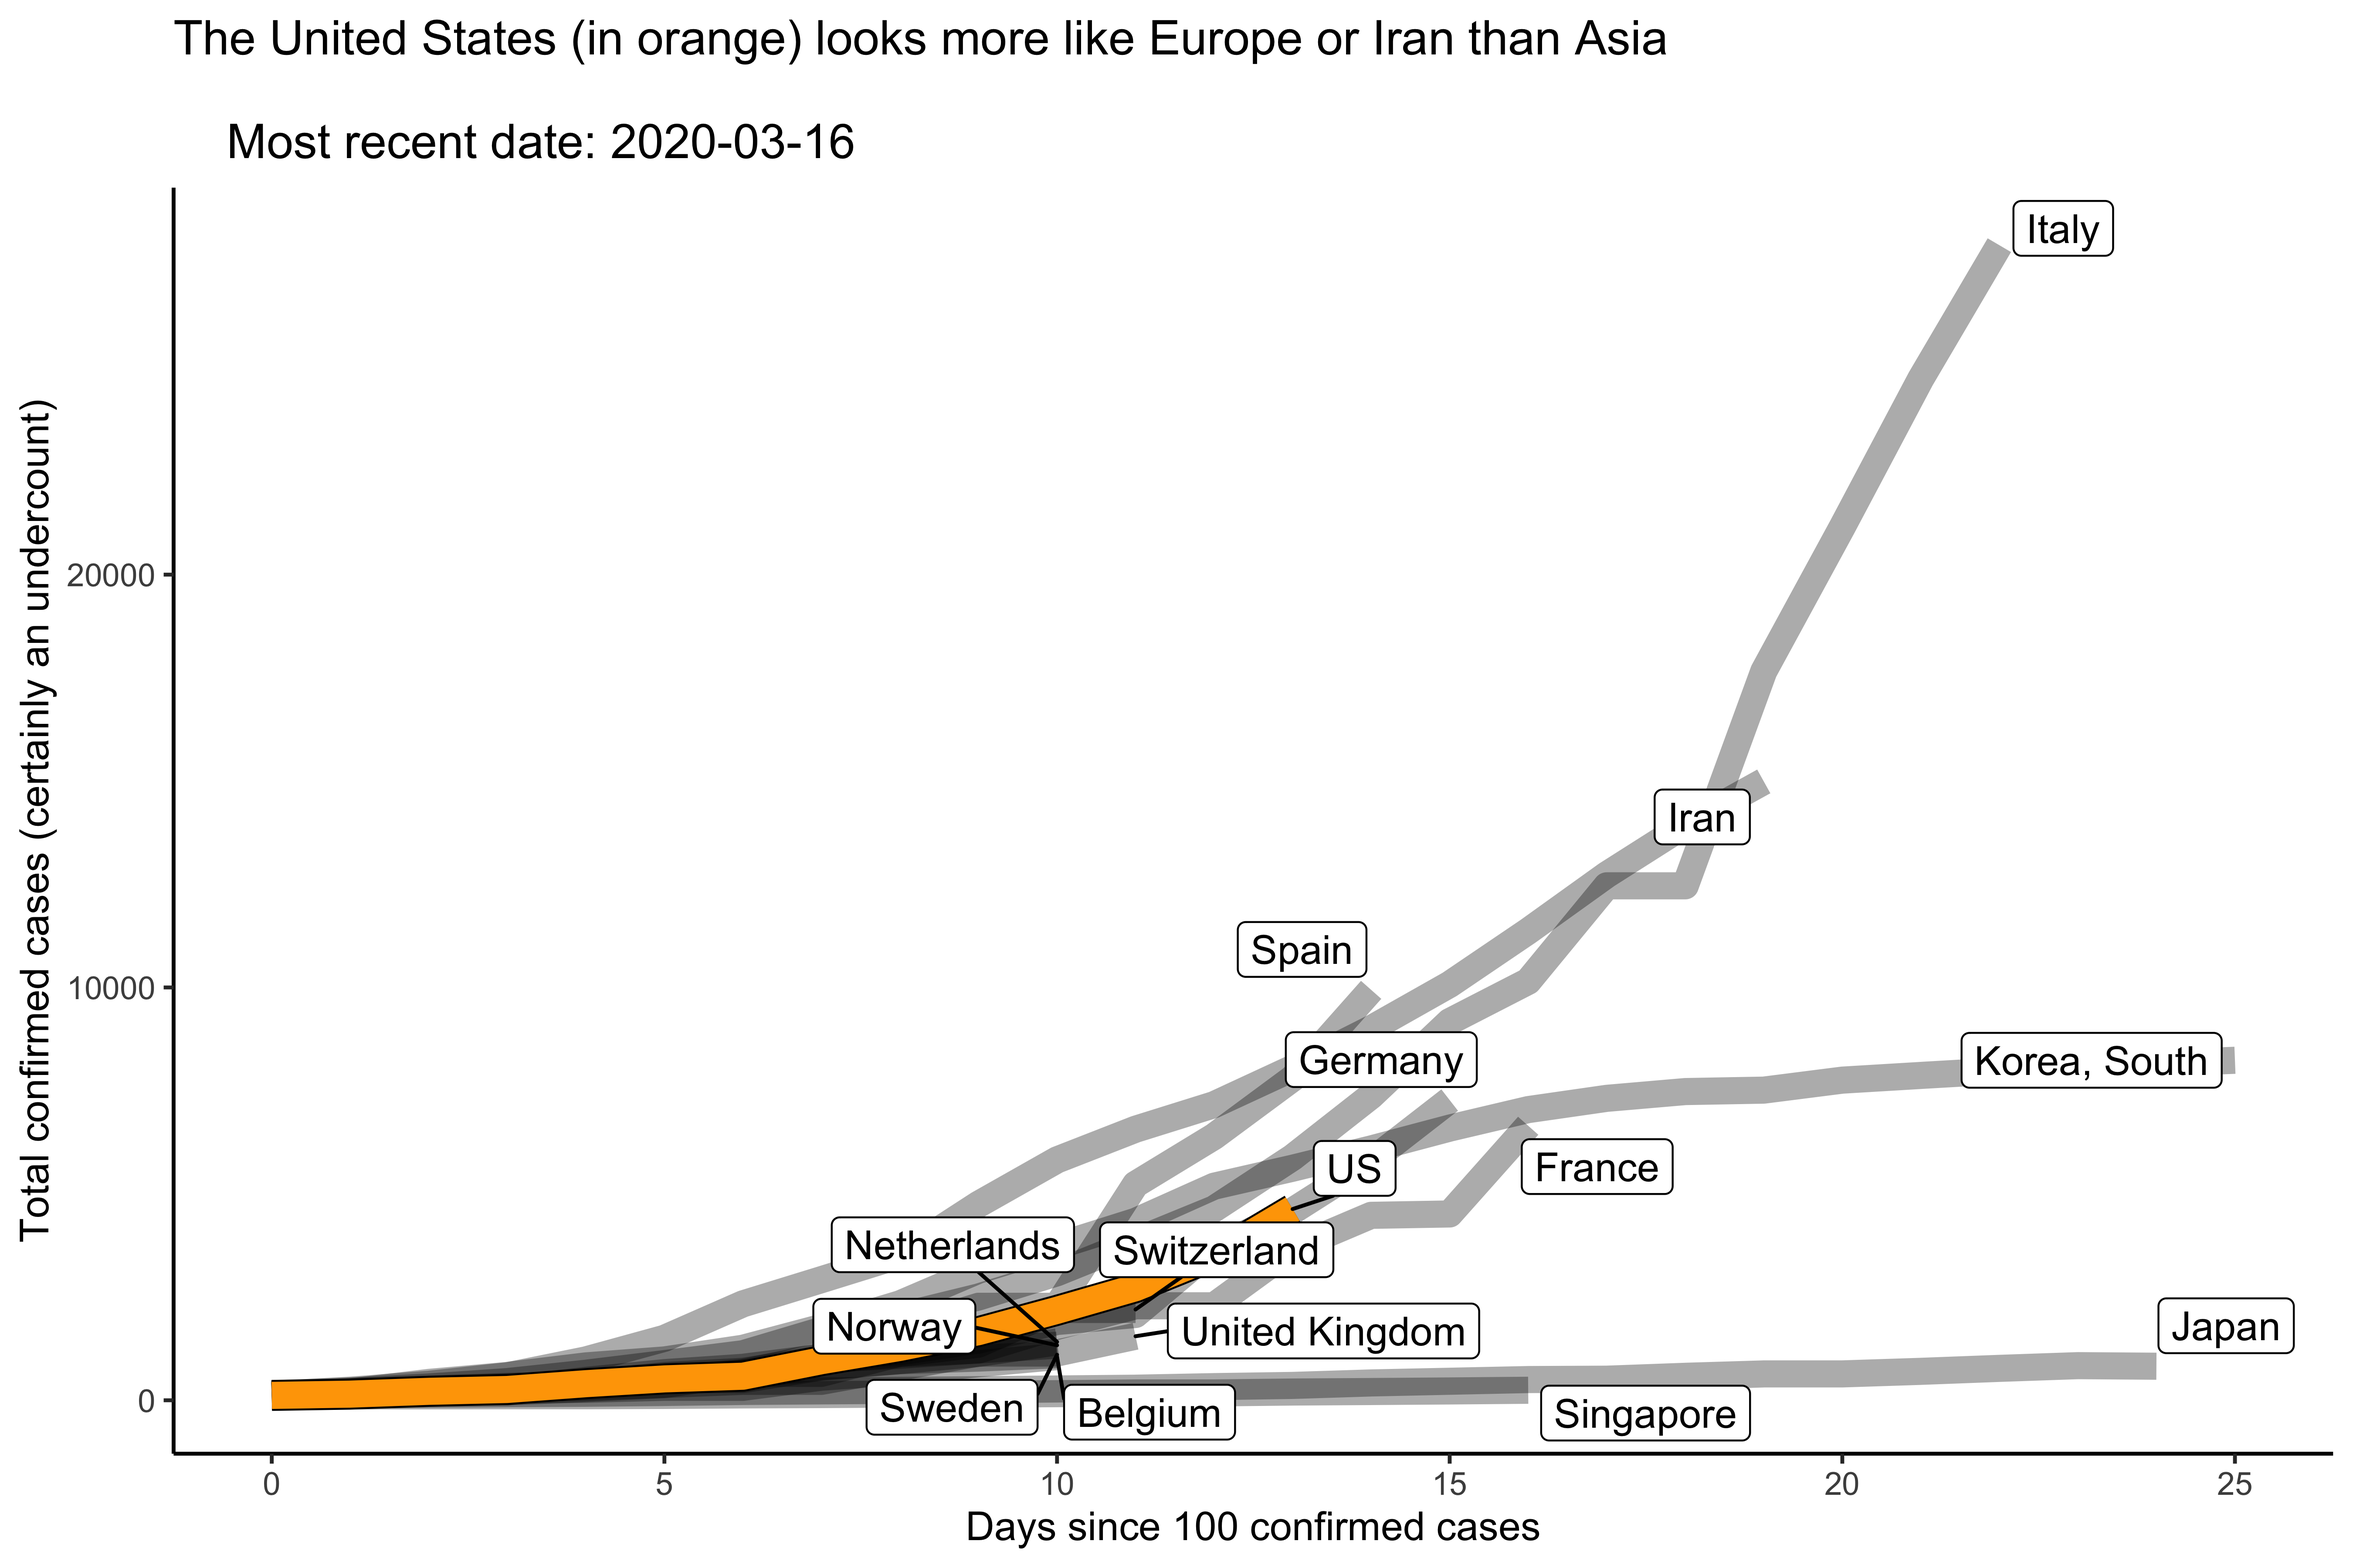
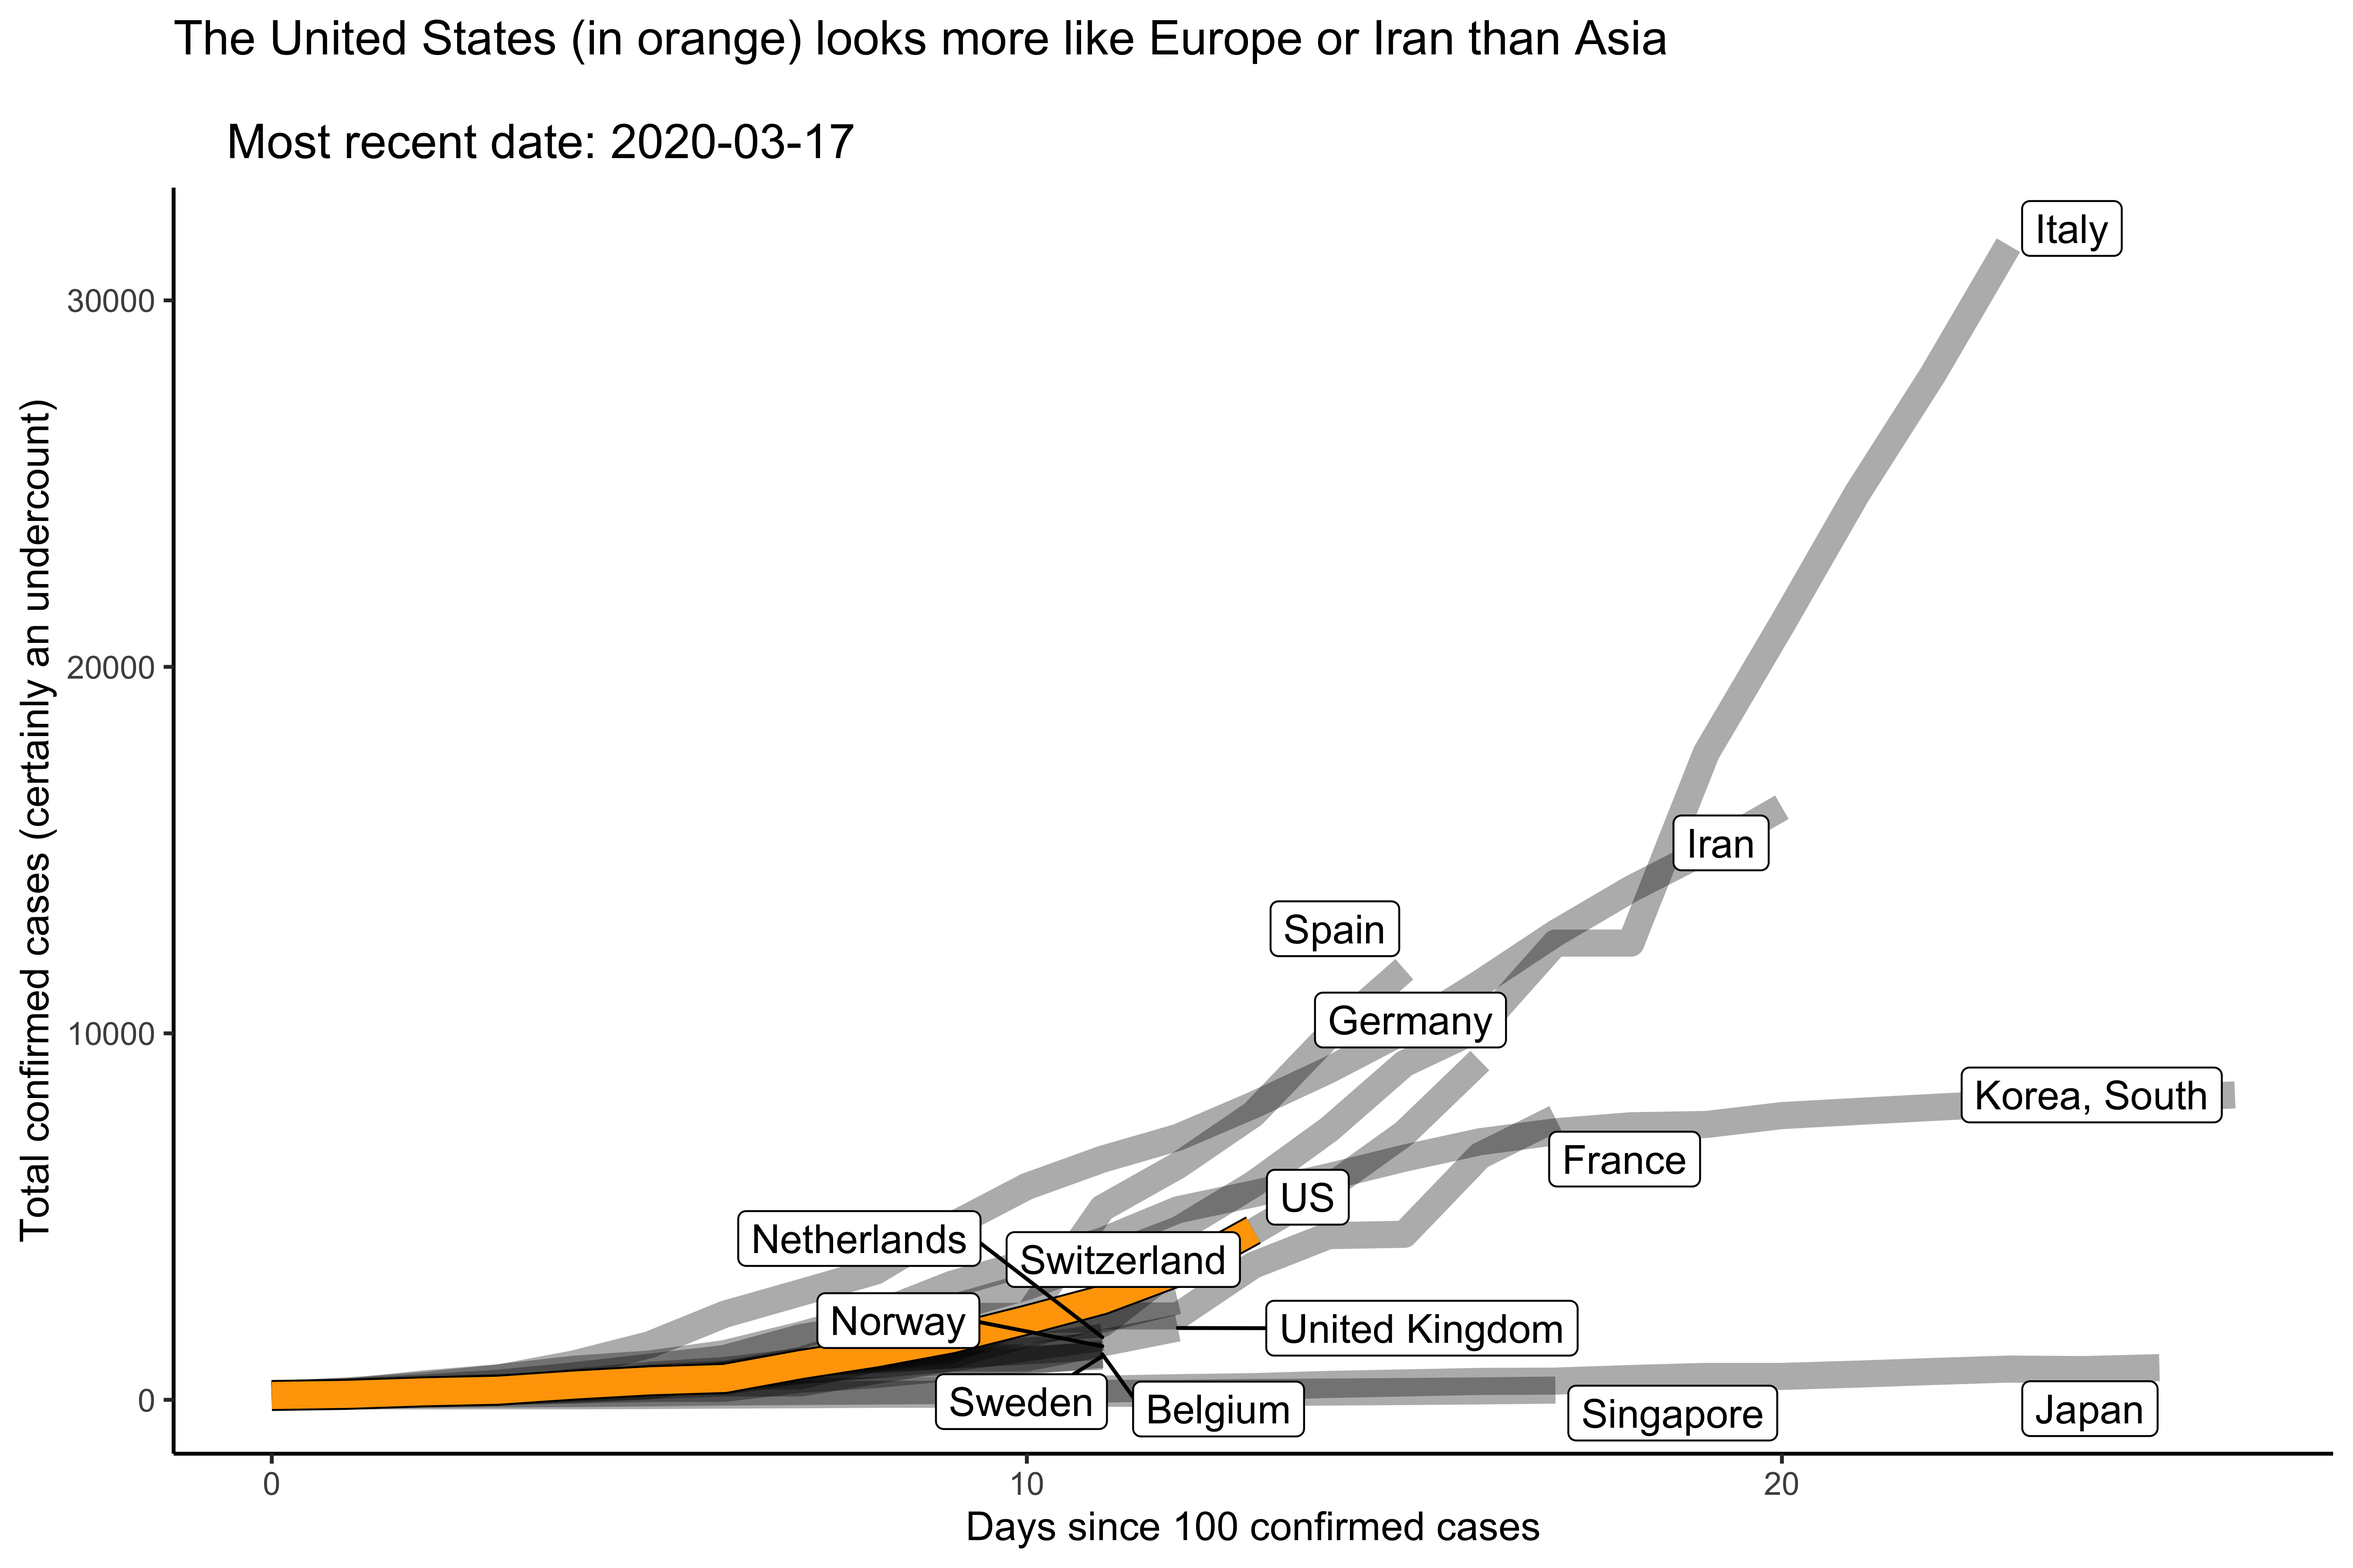
update to pull data direct from jhu using code from "RamiKrispin/coronavirus" package

diff --git a/README.md b/README.md
@@ -12,7 +12,7 @@ It is a comparison of confirmed coronavirus cases by country to Italy. The compa
 Note: confirmed cases is certainly an undercount relative to true cases. See link at bottom of read me for more. 
 
 <figure style="float:left;">
-<img src="https://github.com/hollina/coronoavirus-simple-time-series/blob/master/output/coronavirus_cases_compared_to_italy.png" align="left"  width="800"  /> 
+<img src="https://github.com/hollina/coronoavirus-simple-time-series/blob/master/output/coronavirus_cases_compared_to_italy_and_south_korea.png" align="left"  width="800"  /> 
 </figure>
 
 ## Source
@@ -26,7 +26,7 @@ This package pulls data from the Johns Hopkins University Center for Systems Sci
 The data also include deaths, which have less of a clear overlap with Italy. It is likely this death count does not capture all coronavirus related deaths. 
 
 <figure style="float:left;">
-<img src="https://github.com/hollina/coronoavirus-simple-time-series/blob/master/output/coronavirus_deaths_compared_to_italy.png" align="left"  width="800"  /> 
+<img src="https://github.com/hollina/coronoavirus-simple-time-series/blob/master/output/coronavirus_deaths_compared_to_italy_and_south_korea.png" align="left"  width="800"  /> 
 </figure>
 
 ## True v confirmed cases
